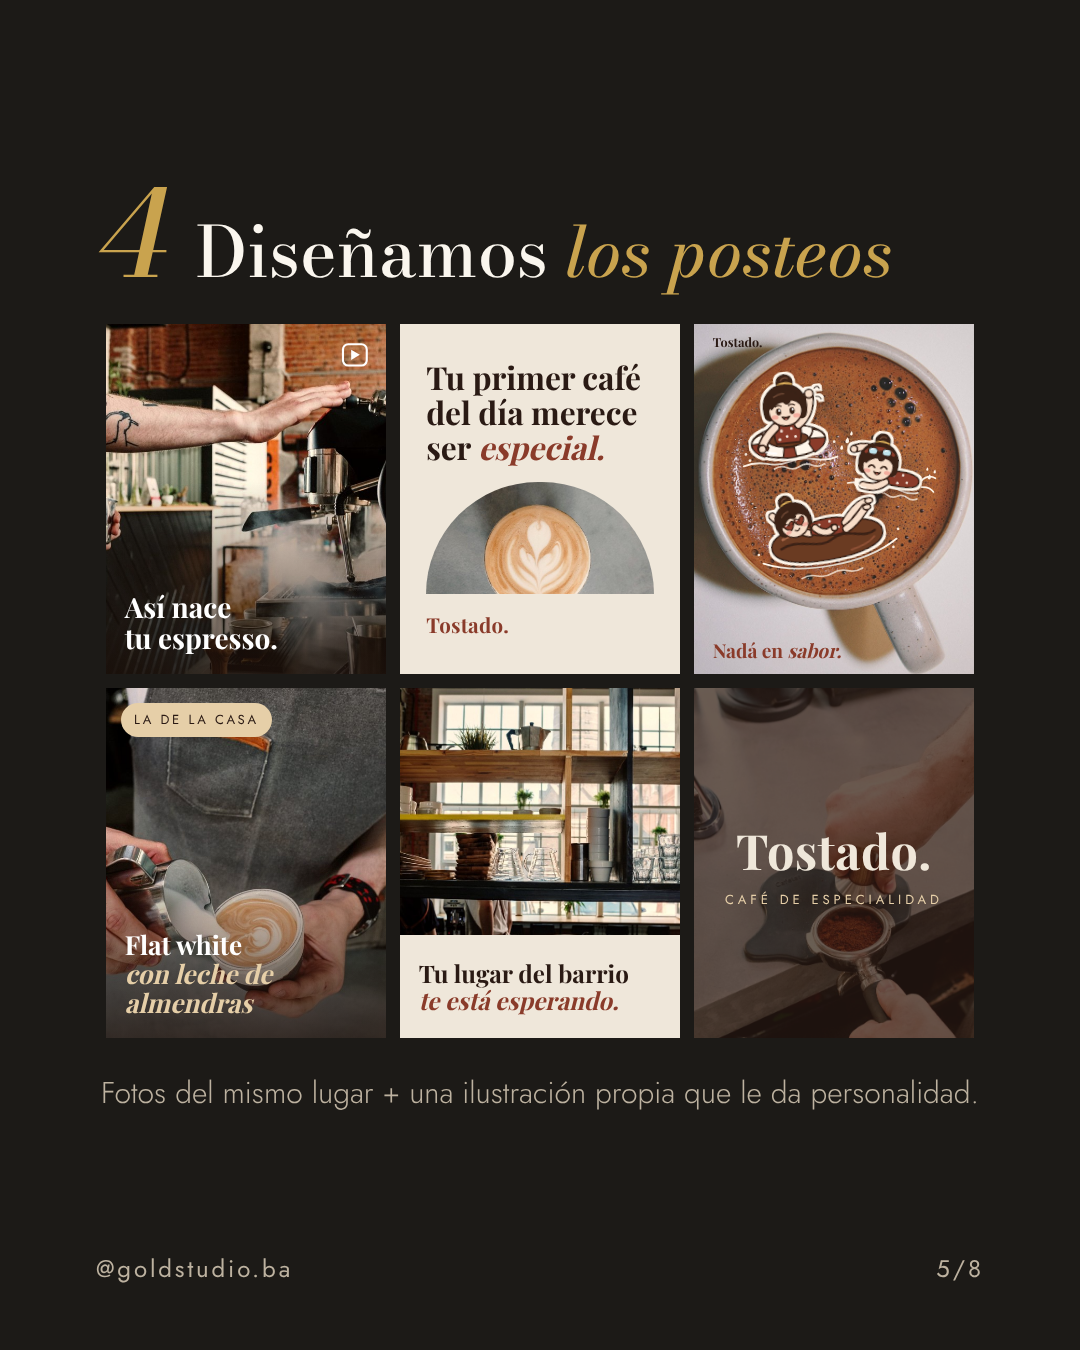
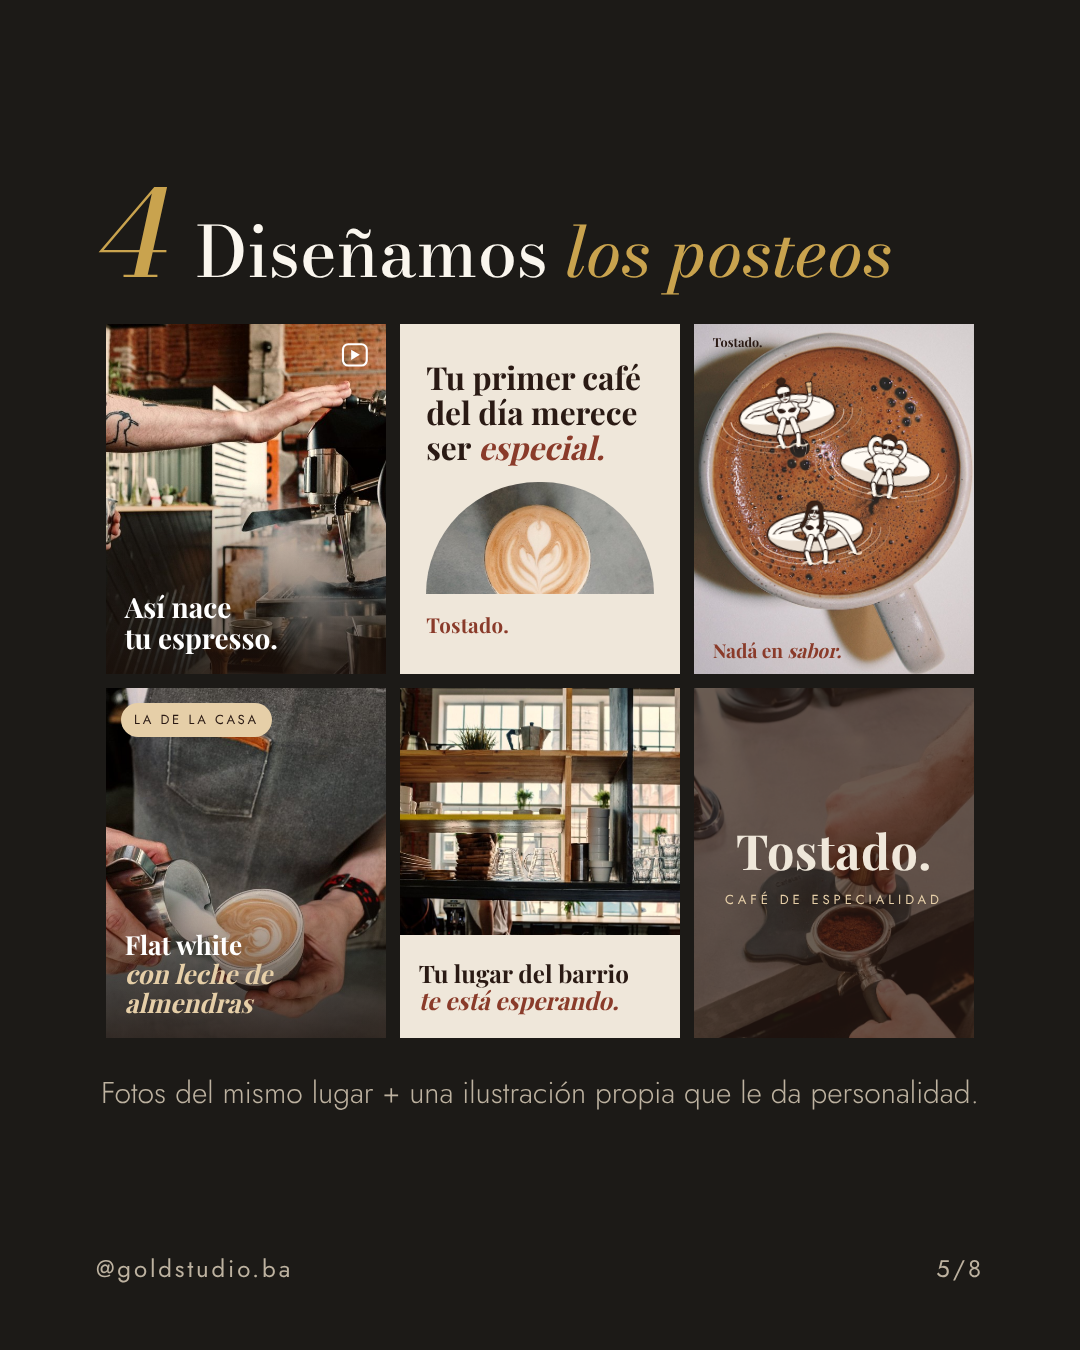
Carrusel de café: personajes adultos en salvavidas, ilustración de línea
Claude-Session: https://claude.ai/code/session_01MqSuY797qLSbTTpQyvUeTv

Changed region(s): [[0.6722, 0.28, 0.8861, 0.4356]]

diff --git a/contenido/scripts/personaje_cafe.py b/contenido/scripts/personaje_cafe.py
@@ -1,99 +1,120 @@
-"""Personaje de Tostado (chica con flequillo y rodete) nadando en el café, en distintas poses.
-Cada pose devuelve SVG en coordenadas locales (cabeza de radio ~22 centrada en 0,0)."""
-LN, HAIR, HAIR2, SK, SK2, BLU = '#3A2318', '#3B2418', '#6B4532', '#F8DEC9', '#EDC2A6', '#F2A497'
-SUIT, SUIT2, CREAM, GOLD = '#8A3B2A', '#A9503C', '#FFF6EA', '#E0B15C'
-W = 2.2
+"""Personas relajando en salvavidas dentro del café: ilustración de línea, proporciones adultas (estilo editorial).
+Cada pose devuelve (agua, figura) en coordenadas locales: el agujero del salvavidas está centrado en 0,0."""
+LN, FILL, HAIR, DARK, LIP = '#2E1C14', '#FFFBF4', '#3A2418', '#2E1C14', '#9C4A3A'
+W = 0.9
 st = lambda w=W, c=LN: f'stroke="{c}" stroke-width="{w}" stroke-linecap="round" stroke-linejoin="round"'
 
-def eyes(kind='open'):
-    if kind == 'happy':   # ojitos cerrados de felicidad
-        return f'<path d="M-12 5 q4 -5 8 0 M4 5 q4 -5 8 0" fill="none" {st(2.4)}/>'
-    if kind == 'sun':     # anteojos de sol en forma de corazón
-        heart = lambda x: (f'<path d="M{x} 9 C{x-9} 3 {x-9} -3 {x-4.5} -2.5 C{x-2} -2.3 {x} 0 {x} 1.5 C{x} 0 {x+2} -2.3 {x+4.5} -2.5 C{x+9} -3 {x+9} 3 {x} 9Z" fill="{SUIT}" {st(1.8)}/>'
-                           f'<path d="M{x-5} 0.5 q1.5 -1.5 3 -1" fill="none" stroke="#fff" stroke-width="1.3" stroke-linecap="round" opacity=".8"/>')
-        return heart(-8) + heart(8) + f'<path d="M-3 2 q3 -2 6 0" fill="none" {st(1.8)}/>'
-    return ''.join(f'<ellipse cx="{x}" cy="4" rx="3.2" ry="4.2" fill="{LN}"/><circle cx="{x+1}" cy="2.4" r="1.3" fill="#fff"/>'
-                   f'<path d="M{x-3.5} -2.5 q3.5 -2.4 7 0" fill="none" {st(1.6)}/>' for x in (-8, 8))
+def limb(d, w=3.0):
+    return (f'<path d="{d}" fill="none" stroke="{LN}" stroke-width="{w + 1.3}" stroke-linecap="round" stroke-linejoin="round"/>'
+            f'<path d="{d}" fill="none" stroke="{FILL}" stroke-width="{w}" stroke-linecap="round" stroke-linejoin="round"/>')
+def line(d, w=W, o=1): return f'<path d="{d}" fill="none" {st(w)} opacity="{o}"/>'
 
-def head(eye='open', mouth='smile', goggles=False):
-    m = {'smile': f'<path d="M-3.5 11.5 q3.5 3.5 7 0" fill="none" {st(2)}/>',
-         'open': f'<path d="M-4.5 10.5 q4.5 7 9 0 q-4.5 1.5 -9 0Z" fill="#B5574A" {st(1.8)}/><path d="M-2 13.5 q2 1.6 4 0" fill="#F2A497"/>',
-         'o': f'<ellipse cx="0" cy="12.5" rx="2.6" ry="3" fill="#B5574A" {st(1.6)}/>'}[mouth]
-    g = (f'<path d="M-18 -14 C-10 -22 10 -22 18 -14" fill="none" stroke="{SUIT}" stroke-width="4" stroke-linecap="round"/>'
-         + ''.join(f'<ellipse cx="{x}" cy="-16" rx="6" ry="4.6" fill="#BFE3EA" {st(1.8)}/><path d="M{x-3} -17 q2 -2 4 -1" fill="none" stroke="#fff" stroke-width="1.2"/>' for x in (-9, 9))) if goggles else ''
-    return (f'<circle cx="2" cy="-30" r="9.5" fill="{HAIR}" {st()}/><path d="M-2 -33 q3 -4 8 -2" fill="none" stroke="{HAIR2}" stroke-width="1.8" stroke-linecap="round"/>'
-            f'<path d="M-6 -27 q8 -4 16 0" fill="none" stroke="{GOLD}" stroke-width="3.2" stroke-linecap="round"/>'           # gomita dorada
-            f'<path d="M-25 6 C-29 -16 -14 -28 0 -27 C15 -28 29 -16 25 6 C24 13 19 15 16 12 L-16 12 C-19 15 -24 13 -25 6Z" fill="{HAIR}" {st()}/>'
-            f'<ellipse cx="0" cy="3" rx="20" ry="18.5" fill="{SK}" {st()}/>'
-            f'<path d="M-21 2 C-22 -14 -10 -21 1 -20 C13 -21 22 -13 21 1 C17 -6 12 -9 7 -9 C6 -4 1 -3 -1 -8 C-6 -8 -12 -5 -16 0 C-17 -3 -18 -2 -21 2Z" fill="{HAIR}" {st()}/>'
-            f'<path d="M-12 -14 q6 -4 12 -3" fill="none" stroke="{HAIR2}" stroke-width="1.8" stroke-linecap="round"/>'
-            + eyes(eye) + f'<ellipse cx="-13" cy="10" rx="4.2" ry="2.6" fill="{BLU}" opacity=".85"/><ellipse cx="13" cy="10" rx="4.2" ry="2.6" fill="{BLU}" opacity=".85"/>'
-            + m + g)
+def face(rot=0, glasses=True, lips=True):
+    """Cara adulta chiquita, centrada en 0,0 (alto ~15)."""
+    g = (f'<path d="M-5.6 -1.6 h4.4 a.6 .6 0 0 1 .6 .6 v1.6 a2 2 0 0 1 -2 2 h-1.6 a2 2 0 0 1 -2 -2 v-1.6 a.6 .6 0 0 1 .6 -.6Z" fill="{DARK}"/>'
+         f'<path d="M1 -1.6 h4.4 a.6 .6 0 0 1 .6 .6 v1.6 a2 2 0 0 1 -2 2 h-1.6 a2 2 0 0 1 -2 -2 v-1.6 a.6 .6 0 0 1 .6 -.6Z" fill="{DARK}"/>'
+         f'<path d="M-.6 -1 q.6 -.5 1.2 0" fill="none" {st(.7)}/><path d="M-4.6 -.8 l1 -.4 M2 -.8 l1 -.4" stroke="#fff" stroke-width=".5" opacity=".7"/>') if glasses else \
+        f'<path d="M-4.4 -.2 q1.4 .9 2.8 0 M1.6 -.2 q1.4 .9 2.8 0" fill="none" {st(.8)}/><path d="M-4.6 -2.6 q1.6 -.8 3 -.2 M1.6 -2.8 q1.6 -.6 3 .2" fill="none" {st(.6)}/>'
+    return (f'<g transform="rotate({rot})">'
+            f'<path d="M-6 -3 C-6.2 -9 6.2 -9 6 -3 C5.9 2.5 3.4 7.4 0 7.6 C-3.4 7.4 -5.9 2.5 -6 -3Z" fill="{FILL}" {st()}/>'
+            + g + line('M.2 .6 q.8 2 -.5 2.6', .7)
+            + (f'<path d="M-1.8 4.6 q1.8 -.8 3.6 0 q-1.8 1.4 -3.6 0Z" fill="{LIP}" {st(.5)}/>' if lips else '') + '</g>')
 
-def arm(d, w=7.5):
-    return (f'<path d="{d}" fill="none" stroke="{LN}" stroke-width="{w+2*W}" stroke-linecap="round" stroke-linejoin="round"/>'
-            f'<path d="{d}" fill="none" stroke="{SK}" stroke-width="{w}" stroke-linecap="round" stroke-linejoin="round"/>')
-def hand(x, y, r=4.6): return f'<circle cx="{x}" cy="{y}" r="{r}" fill="{SK}" {st()}/>'
-def dots(pts, r=1.7): return ''.join(f'<circle cx="{x}" cy="{y}" r="{r}" fill="{CREAM}" opacity=".9"/>' for x, y in pts)
+SHADE = '#E6DACB'
+def tube(rx=27, ry=11.5, hx=12.5, hy=5):
+    """Salvavidas blanco inflado: (parte de atrás, parte de adelante) para meter a la persona en el medio."""
+    ring = f'M{-rx} 0 A{rx} {ry} 0 1 1 {rx} 0 A{rx} {ry} 0 1 1 {-rx} 0Z M{-hx} 0 A{hx} {hy} 0 1 0 {hx} 0 A{hx} {hy} 0 1 0 {-hx} 0Z'
+    back = (f'<path d="{ring}" fill="{FILL}" fill-rule="evenodd"/>'
+            f'<path d="M{-hx} 0 A{hx} {hy} 0 0 1 {hx} 0 C{hx*.7} {-hy*.3} {-hx*.7} {-hy*.3} {-hx} 0Z" fill="{SHADE}"/>'
+            + line(f'M{-rx} 0 A{rx} {ry} 0 0 1 {rx} 0') + line(f'M{-hx} 0 A{hx} {hy} 0 0 1 {hx} 0')
+            + line(f'M{-rx*.7} {-ry*.45} C{-rx*.35} {-ry*.82} {rx*.35} {-ry*.82} {rx*.7} {-ry*.45}', .5, .45))
+    front = (f'<path d="M{-rx} 0 A{rx} {ry} 0 0 0 {rx} 0 L{hx} 0 A{hx} {hy} 0 0 1 {-hx} 0Z" fill="{FILL}"/>'
+             f'<path d="M{-rx} 0 A{rx} {ry} 0 0 0 {rx} 0 C{rx*.9} {ry*.55} {-rx*.9} {ry*.55} {-rx} 0Z" fill="{SHADE}" opacity=".8"/>'
+             + line(f'M{-rx} 0 A{rx} {ry} 0 0 0 {rx} 0') + line(f'M{hx} 0 A{hx} {hy} 0 0 1 {-hx} 0'))
+    return back, front
 
-def wave(x, y, w, o=.95, sw=2.2):
-    return f'<path d="M{x-w} {y} q{w/4} -4 {w/2} 0 t{w/2} 0 t{w/2} 0 t{w/2} 0" fill="none" stroke="{CREAM}" stroke-width="{sw}" stroke-linecap="round" opacity="{o}"/>'
-def drops(pts): return ''.join(f'<path d="M{x} {y-r*1.6} C{x+r} {y-r*.2} {x+r} {y+r} {x} {y+r} C{x-r} {y+r} {x-r} {y-r*.2} {x} {y-r*1.6}Z" fill="{CREAM}"/>' for x, y, r in pts)
+def ripples(rx=27, ry=11.5, k=3):
+    out = ''
+    for i in range(1, k + 1):
+        a, b = rx + 5 * i, ry + 3 * i
+        out += (f'<path d="M{-a} 1 A{a} {b} 0 0 0 {-a*.1} {b+.5}" fill="none" stroke="#FFF3E2" stroke-width=".7" stroke-linecap="round" opacity="{.8 - .2*i}"/>'
+                f'<path d="M{a*.35} {b*.95} A{a} {b} 0 0 0 {a} 0" fill="none" stroke="#FFF3E2" stroke-width=".7" stroke-linecap="round" opacity="{.7 - .18*i}"/>')
+    return out
 
-# --- Pose 1: en un salvavidas inflable a rayas, saludando ---
-def salvavidas():
-    ring_back = f'<ellipse cx="0" cy="40" rx="44" ry="19" fill="{CREAM}" {st()}/><ellipse cx="0" cy="38" rx="24" ry="8.5" fill="#6B3A22" {st(1.8)}/>'
-    torso = (f'<path d="M-15 16 C-17 26 -16 36 -14 42 L14 42 C16 36 17 26 15 16 C8 21 -8 21 -15 16Z" fill="{SUIT}" {st()}/>'
-             + dots([(-7, 27), (5, 25), (-1, 34), (9, 35), (-10, 37)], 1.6))
-    stripes = ''.join(f'<path d="M{a}" fill="{SUIT}" {st(1.8)}/>' for a in [
-        '-44 40 C-44 47 -38 53 -30 56 L-24 45 C-27 43 -25 41 -24 39 Z', '30 56 C38 53 44 47 44 40 L24 39 C25 41 27 43 24 45 Z',
-        '-8 59 C-3 60 3 60 8 59 L6 47 C2 47.5 -2 47.5 -6 47 Z'])
-    ring_front = (f'<path d="M-44 40 C-44 52 -24 59 0 59 C24 59 44 52 44 40 C44 34 38 30 30 28 C30 33 24 46.5 0 46.5 C-24 46.5 -30 33 -30 28 C-38 30 -44 34 -44 40Z" fill="{CREAM}" {st()}/>'
-                  + stripes + f'<path d="M-34 47 q8 5 18 6" fill="none" stroke="#fff" stroke-width="2.4" stroke-linecap="round" opacity=".9"/>')
-    arms = (arm('M-14 22 C-24 30 -30 38 -32 45') + hand(-32, 46)
-            + arm('M14 21 C24 14 30 2 30 -12') + hand(30, -14, 5.2)
-            + f'<path d="M37 -20 q4 -4 6 1 M38 -10 q5 0 6 4" fill="none" {st(1.6)}/>')
-    agua = wave(0, 64, 56) + wave(10, 71, 30, .7) + dots([(-52, 50), (54, 46), (-48, 58)])
-    return agua, ring_back + torso + ring_front + arms + head('open', 'open')
+def head(hair='bun', rot=0, glasses=True, lips=True):
+    """Cabeza adulta (alto ~10) centrada en 0,0, con cuello hacia abajo."""
+    f = f'<g transform="scale(.62)">{face(0, glasses, lips)}</g>'
+    H = {
+     'bun': (f'<path d="M-4.2 -1.2 C-5.2 -7.4 5.2 -7.4 4.2 -1.2 C3.7 -4 1.8 -5 0 -5 C-1.8 -5 -3.7 -4 -4.2 -1.2Z" fill="{HAIR}" {st(.6)}/>'
+             f'<path d="M.6 -9.4 c-2.8 -.4 -3.8 1.8 -2 3.2 c1.6 1.1 4 .1 3.8 -1.7 c-.2 -1 -.9 -1.4 -1.8 -1.5Z" fill="{HAIR}" {st(.6)}/>'
+             + line('M-2.4 -4.2 q2 -1.2 4.2 -.4', .35, .6)),
+     'short': (f'<path d="M-4.2 -1.6 C-5.2 -6.6 -1.4 -8 1 -7.4 C3.8 -7.2 5.4 -5.2 4.2 -1.6 C3.6 -3.8 2.2 -4.4 .8 -4.4 C-.8 -5.4 -3 -4.2 -4.2 -1.6Z" fill="{HAIR}" {st(.6)}/>'
+               + line('M-1.8 -6.2 q1.6 -.8 3.4 -.2', .35, .6)),
+     'long': (f'<path d="M-4.4 -.8 C-5.6 -7.6 5.6 -7.6 4.4 -.8 C5.2 1.8 6.2 4.4 5.4 7 C6.4 9 5.6 11 4 11.6 C4.6 9.6 3.6 8.4 3.4 6.4 C3.2 3.6 3 -1 1.2 -3.8 C-.6 -3 -2.8 -1.6 -3.4 1.4 C-3.6 4 -3.4 6 -4.6 8.4 C-5.6 10.2 -6.6 10.4 -7.4 9.6 C-5.8 8.6 -6.4 6.6 -5.4 4.6 C-4.8 2.8 -4.8 1 -4.4 -.8Z" fill="{HAIR}" {st(.6)}/>'
+              + line('M-2 -5.4 q2 -1 4 0 M4.2 2 q.8 2.4 .2 4.6 M-4.4 3 q-.6 2 -.4 4', .35, .55)),
+    }[hair]
+    return f'<g transform="rotate({rot})">{f}{H}</g>'
 
-# --- Pose 2: tirada sobre una medialuna inflable, con anteojos de corazón ---
-def grano():
-    """Tirada sobre un grano de café inflable, con anteojos de corazón."""
-    G = 'M-72 14 C-72 -4 -40 -10 0 -10 C40 -10 74 -4 74 14 C74 32 40 40 0 40 C-40 40 -72 32 -72 14Z'
-    bean = (f'<path d="{G}" fill="#6B3A22" {st()}/>'
-            f'<path d="M-60 16 C-36 4 -12 26 8 14 C28 2 48 22 64 12" fill="none" stroke="#3A2016" stroke-width="3.2" stroke-linecap="round"/>'
-            f'<path d="M-56 4 C-40 -3 -20 -4 -6 -3" fill="none" stroke="#A7684A" stroke-width="3.4" stroke-linecap="round"/>'
-            f'<path d="M30 32 C44 30 56 26 62 20" fill="none" stroke="#8E5136" stroke-width="2.6" stroke-linecap="round"/>')
-    body = (arm('M-20 2 C-36 -4 -54 -14 -64 -28', 7)
-            + f'<path d="M-18 -10 C-4 -15 18 -15 28 -10 C32 -5 32 3 28 7 C18 11 -4 10 -18 4Z" fill="{SUIT}" {st()}/>'
-            + dots([(-6, -7), (8, -9), (2, 2), (18, 0)], 1.6)
-            + arm('M-12 -4 C-4 6 6 6 12 0', 6.5) + hand(13, 0, 4)
-            + arm('M28 -4 C40 -18 50 -26 60 -26', 7.5) + arm('M28 4 C42 -2 50 -12 56 -18', 7.5)
-            + f'<ellipse cx="63" cy="-27" rx="5.2" ry="3.6" fill="{SK}" {st()}/><ellipse cx="59" cy="-19" rx="5.2" ry="3.6" fill="{SK}" {st()}/>')
-    cara = f'<g transform="translate(-38 -16) rotate(-18) scale(.92)">{head("sun", "smile")}</g>'
-    agua = (f'<path d="M-86 30 C-40 54 44 54 90 28" fill="none" stroke="{CREAM}" stroke-width="2.2" stroke-linecap="round"/>'
-            + wave(0, 58, 40, .7) + dots([(94, 16), (-90, 18), (84, 38)]))
-    return agua, bean + body + cara
+def torso(swim='bikini'):
+    """Hombros y pecho, recostados: arranca en el cuello (0,-7) y entra al agujero (y≈3)."""
+    t = (f'<path d="M-2 -7.4 C-5 -7.2 -7.4 -6.6 -8 -4.8 C-8.2 -2.6 -7 -.6 -5.6 1 C-5 2 -5.4 3 -5.8 3.8 L5.8 3.8 C5.4 3 5 2 5.6 1 C7 -.6 8.2 -2.6 8 -4.8 C7.4 -6.6 5 -7.2 2 -7.4Z" fill="{FILL}" {st(.7)}/>')
+    if swim == 'bikini':
+        t += (f'<path d="M-5.6 -3.4 C-5 -.8 -2.2 -.4 -.5 -2 C-1.2 -4 -3.4 -4.6 -5.6 -3.4Z M5.6 -3.4 C5 -.8 2.2 -.4 .5 -2 C1.2 -4 3.4 -4.6 5.6 -3.4Z" fill="{DARK}"/>'
+              + line('M-5 -3.6 L-2.8 -7.2 M5 -3.6 L2.8 -7.2', .4))
+    else:
+        t += line('M-4.6 -2.4 q2.4 1.2 4.2 .2 M4.6 -2.4 q-2.4 1.2 -4.2 .2', .35, .55)
+    return t
 
-# --- Pose 3: nadando con antiparras, brazo afuera y salpicadura ---
-def nado():
-    body = (f'<path d="M6 12 C16 4 40 4 52 10 C58 14 56 22 48 24 C36 27 16 26 6 20Z" fill="{SUIT}" {st()}/>'
-            + dots([(22, 12), (34, 10), (40, 19), (28, 21)], 1.6)
-            + arm('M14 10 C10 -14 -12 -26 -32 -16') + hand(-34, -15)
-            + arm('M12 22 C4 30 -6 32 -16 30') + f'<path d="M-24 26 q4 8 12 7" fill="none" stroke="{CREAM}" stroke-width="2.2" stroke-linecap="round"/>')
-    agua = (wave(10, 30, 46) + wave(30, 38, 26, .7)
-            + drops([(-44, -24, 3), (-40, -34, 2.2), (-50, -14, 2.4), (68, 8, 2.6), (74, 0, 2), (64, -2, 1.8)])
-            + f'<path d="M58 14 q8 -10 18 -6 M60 22 q10 -2 16 4" fill="none" stroke="{CREAM}" stroke-width="2.2" stroke-linecap="round"/>')
-    return agua, body + head('happy', 'open', goggles=True)
+def legs(cross=False, swim='bikini'):
+    """Muslos que pasan por arriba del borde de adelante y piernas que se meten en el café."""
+    if cross:   # una pierna cruzada sobre la otra
+        l = (limb('M2.4 3 C2.8 6.4 3.6 9.4 4.4 12', 2.7) + limb('M4.4 12 C4.2 14.2 3.8 16 3.4 17.8', 2.1)
+             + limb('M-2.4 3 C-1.4 6.4 1 9.2 3.8 10.6', 2.7) + limb('M3.8 10.6 C5.8 12 7.4 14 8.2 16.6', 2.1))
+    else:       # rodillas dobladas sobre el borde
+        l = (limb('M-2.6 3 C-3.6 6.2 -4.8 9 -5.6 11.6', 2.7) + limb('M-5.6 11.6 C-5.2 13.8 -4.6 15.8 -4 17.6', 2.1)
+             + limb('M2.6 3 C3.4 6.2 4.6 9.2 5 11.8', 2.7) + limb('M5 11.8 C5 14 4.8 15.8 4.4 17.6', 2.1))
+    bottom = (f'<path d="M-5.8 3 C-5.4 5.4 5.4 5.4 5.8 3Z" fill="{DARK}"/>')
+    water = f'<path d="M-8 17.4 q2.2 -1.4 4.4 0 t4.4 0 t4.4 0 t4.4 0" fill="none" stroke="#FFF3E2" stroke-width=".8" stroke-linecap="round"/>'
+    return bottom + l + water
 
-POSES = {'salvavidas': salvavidas, 'grano': grano, 'nado': nado}
+def arm_rim(side):
+    """Brazo apoyado sobre el salvavidas."""
+    s = side
+    return limb(f'M{8*s} -4.6 C{11*s} -3.2 {14*s} -2.6 {17*s} -2.6 C{19*s} -2.6 {21*s} -1.4 {22.4*s} .2', 1.9) + \
+        f'<ellipse cx="{23.2*s}" cy="1" rx="1.5" ry="1" fill="{FILL}" {st(.6)}/>'
 
-def sticker_filter(fid='stk', color=CREAM, r=2.2):
-    return (f'<filter id="{fid}" x="-30%" y="-30%" width="160%" height="160%"><feMorphology in="SourceAlpha" operator="dilate" radius="{r}" result="d"/>'
-            f'<feFlood flood-color="{color}"/><feComposite in2="d" operator="in" result="o"/>'
-            f'<feDropShadow dx="0" dy="3" stdDeviation="3" flood-color="#1a0d06" flood-opacity=".35" in="o" result="s"/>'
-            f'<feMerge><feMergeNode in="s"/><feMergeNode in="o"/><feMergeNode in="SourceGraphic"/></feMerge></filter>')
+# --- Pose A: mujer con rodete, recostada, brindando ---
+def brindis():
+    back, front = tube()
+    arm = (limb('M8 -4.8 C11.6 -4 13.6 -5 13.8 -9.6', 2.3) + f'<ellipse cx="13.8" cy="-10.6" rx="1.1" ry="1.4" fill="{FILL}" {st(.6)}/>'
+           + f'<path d="M12.2 -17.2 L15.6 -17.2 L15 -11 L12.8 -11Z" fill="#E7C08E" {st(.6)}/><path d="M12.4 -14.6 h3" stroke="{LN}" stroke-width=".4"/>'
+           + line('M14.6 -17 L16.4 -20', .55))
+    fig = back + arm_rim(-1) + torso() + f'<g transform="translate(-.6 -11.6)">{head("bun", -8)}</g>' + front + legs() + arm
+    return ripples(), fig
+
+# --- Pose B: hombre con las manos detrás de la cabeza y las piernas cruzadas ---
+def relax():
+    back, front = tube()
+    elbows = (limb('M-7.6 -5.6 C-10.6 -8 -11.4 -12 -9 -14.6 C-7.6 -16 -5.4 -15.6 -4 -14', 2.4)
+              + limb('M7.6 -5.6 C10.6 -8 11.4 -12 9 -14.6 C7.6 -16 5.4 -15.6 4 -14', 2))
+    fig = back + elbows + torso('man') + f'<g transform="translate(0 -11.6)">{head("short", 4, lips=False)}</g>' + front + legs()
+    return ripples(), fig
+
+# --- Pose C: mujer de pelo largo, una mano en el agua ---
+def mano_agua():
+    back, front = tube()
+    hand_water = (limb('M8 -4.6 C12 -3 15 -1 17 2.6 C18.4 5.6 20 9 21.4 13', 1.9)
+                  + f'<path d="M18 13.6 q1.8 -1.2 3.6 0 t3.6 0" fill="none" stroke="#FFF3E2" stroke-width=".8" stroke-linecap="round"/>')
+    fig = back + arm_rim(-1) + torso() + f'<g transform="translate(.4 -11.4)">{head("long", 10)}</g>' + front + legs() + hand_water
+    return ripples(), fig
+
+POSES = {'brindis': brindis, 'relax': relax, 'mano_agua': mano_agua}
+
+def sticker_filter(fid='stk'):
+    """Sombra muy suave para asentar la ilustración sobre la foto."""
+    return (f'<filter id="{fid}" x="-30%" y="-30%" width="160%" height="160%">'
+            f'<feDropShadow dx="0" dy="1.4" stdDeviation="1.4" flood-color="#1a0d06" flood-opacity=".35"/></filter>')
 
 def place(name, x, y, sc, rot=0, fid='stk'):
-    agua, cuerpo = POSES[name]()
-    return f'<g transform="translate({x} {y}) rotate({rot}) scale({sc})">{agua}<g filter="url(#{fid})">{cuerpo}</g></g>'
+    agua, figura = POSES[name]()
+    return f'<g transform="translate({x} {y}) rotate({rot}) scale({sc})">{agua}<g filter="url(#{fid})">{figura}</g></g>'

diff --git a/contenido/scripts/carrusel_feed_cafe.py b/contenido/scripts/carrusel_feed_cafe.py
@@ -79,7 +79,7 @@ def nada_svg(vb='0 230 1200 1500', texto=True):
          f'<text x="80" y="330" font-family="XPlayfair" font-size="54" fill="{ESP}">Tostado.</text>') if texto else ''
     return (f'<svg viewBox="{vb}" preserveAspectRatio="xMidYMid slice" style="position:absolute;inset:0;width:100%;height:100%"><defs>{PJ.sticker_filter()}</defs>'
             f'<image href="{PX["taza_arriba"]}" x="0" y="0" width="1200" height="1877"/>'
-            + PJ.place('salvavidas', 390, 590, 3.6, -6) + PJ.place('nado', 790, 830, 3.3, 8) + PJ.place('grano', 560, 1110, 3.3, -10) + t + '</svg>')
+            + PJ.place('brindis', 400, 620, 7.6, -6) + PJ.place('relax', 820, 840, 7.2, 8) + PJ.place('mano_agua', 520, 1120, 7.6, -4) + t + '</svg>')
 def p_nada():
     return f'<div class="post">{nada_svg()}</div>'
 def p_entrega():

diff --git a/contenido/README.md b/contenido/README.md
@@ -15,7 +15,7 @@ Después se usa todo igual:
 - `scripts/caro_ejemplos.py`: carruseles de 1080×1350 (`render(nombre, láminas, css_extra)`).
 - `scratch/stories.py` (y `stories2..5.py`): historias de 1080×1920 sin emojis, con espacios vacíos para stickers.
 - `scripts/mocks.py`, `pack.py`, `mascota.py`, `yogi.py`, `ilus_cafe.py`: dibujos y maquetas reutilizables.
-- `scripts/personaje_cafe.py`: la chica de Tostado nadando en el café (poses: salvavidas, grano, nado) para poner sobre fotos.
+- `scripts/personaje_cafe.py`: personas adultas en salvavidas, ilustración de línea, para poner sobre fotos de café (poses: brindis, relax, mano_agua).
 - `scripts/semana*.py`: lo que ya se publicó, como ejemplo.
 - `marca/`: logos, foto de perfil y paleta.
 - `scratch/pexels/`: fotos reales de Pexels (cafetería) que usa `carrusel_feed_cafe.py`.
